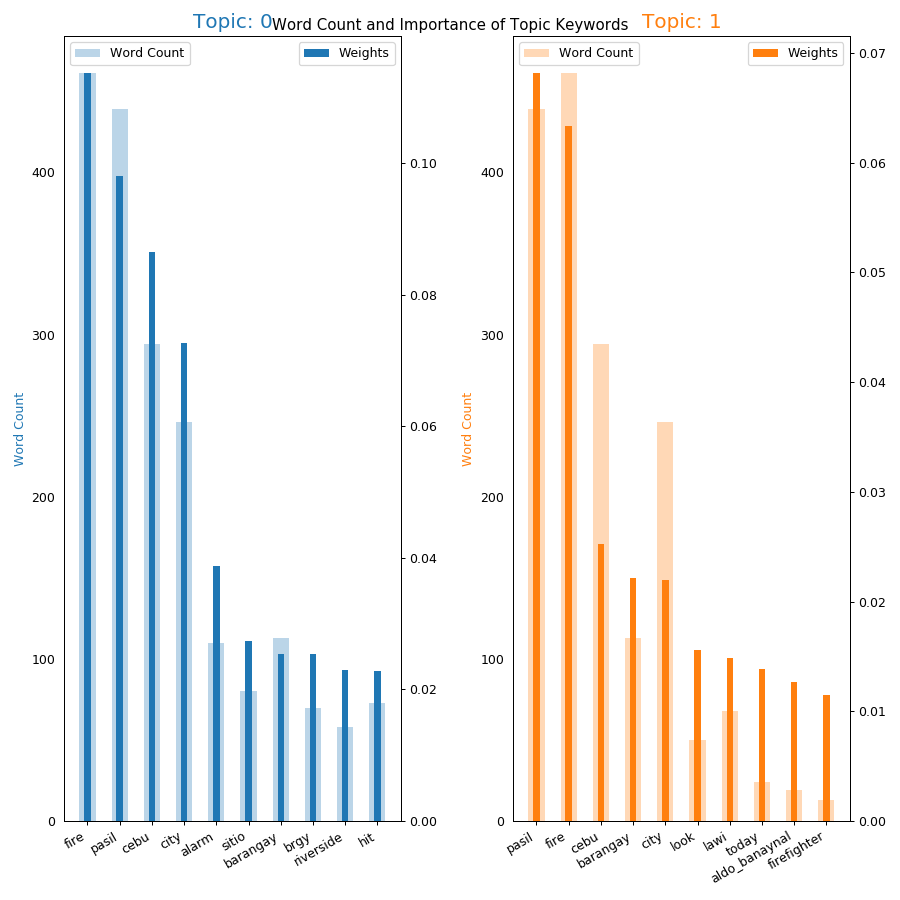
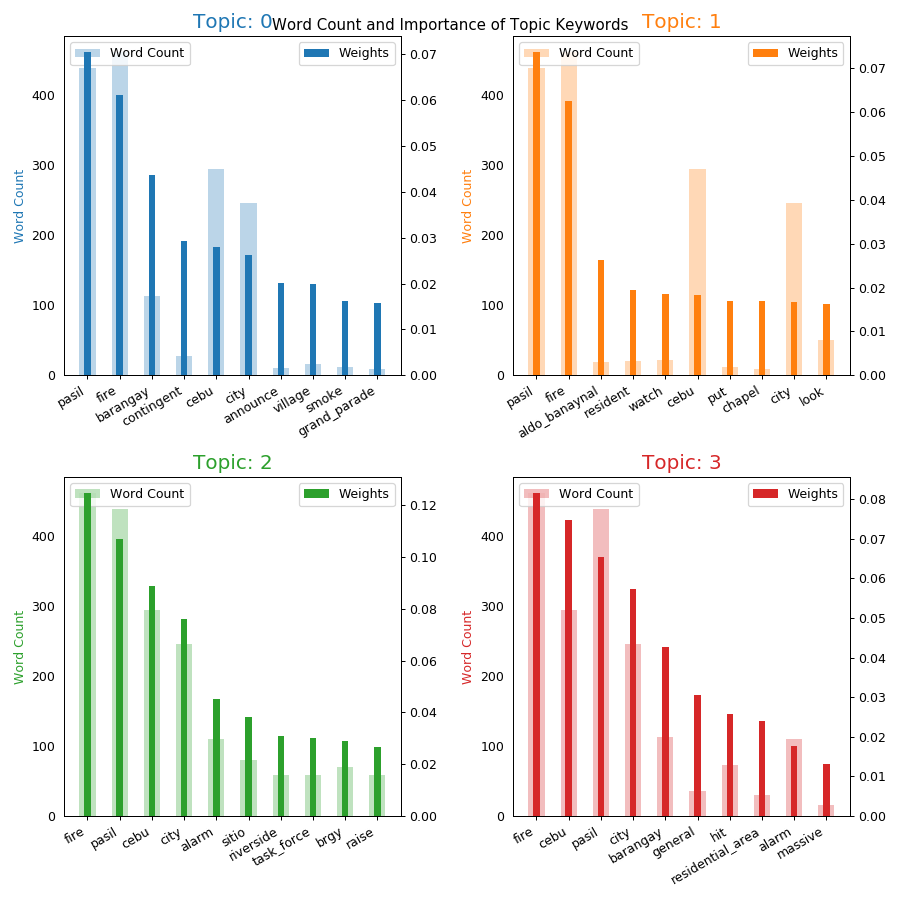
verify graphs

diff --git a/lda.py b/lda.py
@@ -183,12 +183,12 @@ def lda(data_lemmatized):
 	# Show graph
 	limit=40; start=2; step=1;
 	x = range(start, limit, step)
-	# plt.figure()
-	# plt.plot(x, coherence_values)
-	# plt.xlabel("Num Topics")
-	# plt.ylabel("Coherence score")
-	# plt.legend(("coherence_values"), loc='best')
-	# plt.show()
+	plt.figure()
+	plt.plot(x, coherence_values)
+	plt.xlabel("Num Topics")
+	plt.ylabel("Coherence score")
+	plt.legend(("coherence_values"), loc='best')
+	plt.show()
 	count = 0
 	temp = 0
 	# Print the coherence scores
@@ -301,34 +301,34 @@ def lda(data_lemmatized):
 	df = pd.DataFrame(out, columns=['word', 'topic_id', 'importance', 'word_count'])
 
 	# Plot Word Count and Weights of Topic Keywords
-	fig, axes = plt.subplots(half_of_topics, 2, figsize=(10,10), sharey=True, dpi=90, squeeze=True)
-	cols = [color for name, color in mcolors.TABLEAU_COLORS.items()]
-	counter = 0
-	df_word_list = df["word"].tolist()
-	df_wordcount_list = df["word_count"].tolist()
-	df_wordweight_list = df["importance"].tolist()
-	start = 0
-	for i, ax in enumerate(axes.flatten()):
-		sliced_word_list = df_word_list[start:start + 10]
-		sliced_wordcount_list = df_wordcount_list[start:start + 10]
-		sliced_wordweight_list = df_wordweight_list[start:start + 10]
+	# fig, axes = plt.subplots(half_of_topics, 2, figsize=(10,10), sharey=True, dpi=90, squeeze=True)
+	# cols = [color for name, color in mcolors.TABLEAU_COLORS.items()]
+	# counter = 0
+	# df_word_list = df["word"].tolist()
+	# df_wordcount_list = df["word_count"].tolist()
+	# df_wordweight_list = df["importance"].tolist()
+	# start = 0
+	# for i, ax in enumerate(axes.flatten()):
+	# 	sliced_word_list = df_word_list[start:start + 10]
+	# 	sliced_wordcount_list = df_wordcount_list[start:start + 10]
+	# 	sliced_wordweight_list = df_wordweight_list[start:start + 10]
 
-		x1 = np.arange(10)
-		ax.bar(x=x1, height=sliced_wordcount_list, color=cols[i], width=0.5, alpha=0.3, label='Word Count')
-		ax.set_ylabel('Word Count', color=cols[i])
-		ax_twin = ax.twinx()
-		ax_twin.bar(x=x1, height=sliced_wordweight_list, color=cols[i], width=0.2, label='Weights')
-		ax.set_title('Topic: ' + str(i), color=cols[i], fontsize=16)
-		ax.tick_params(axis='y', left=False)
-		ax.set_xticks(np.arange(len(sliced_word_list)))
-		ax.set_xticklabels(sliced_word_list, rotation=30, horizontalalignment= 'right')
-		ax.legend(loc='upper left')
-		ax_twin.legend(loc='upper right')
-		start = start + 10
+	# 	x1 = np.arange(10)
+	# 	ax.bar(x=x1, height=sliced_wordcount_list, color=cols[i], width=0.5, alpha=0.3, label='Word Count')
+	# 	ax.set_ylabel('Word Count', color=cols[i])
+	# 	ax_twin = ax.twinx()
+	# 	ax_twin.bar(x=x1, height=sliced_wordweight_list, color=cols[i], width=0.2, label='Weights')
+	# 	ax.set_title('Topic: ' + str(i), color=cols[i], fontsize=16)
+	# 	ax.tick_params(axis='y', left=False)
+	# 	ax.set_xticks(np.arange(len(sliced_word_list)))
+	# 	ax.set_xticklabels(sliced_word_list, rotation=30, horizontalalignment= 'right')
+	# 	ax.legend(loc='upper left')
+	# 	ax_twin.legend(loc='upper right')
+	# 	start = start + 10
 
-	fig.tight_layout(w_pad=2)    
-	fig.suptitle('Word Count and Importance of Topic Keywords')    
-	plt.show()
+	# fig.tight_layout(w_pad=2)    
+	# fig.suptitle('Word Count and Importance of Topic Keywords')    
+	# plt.show()
 
 	# find for best coherence value score
 
